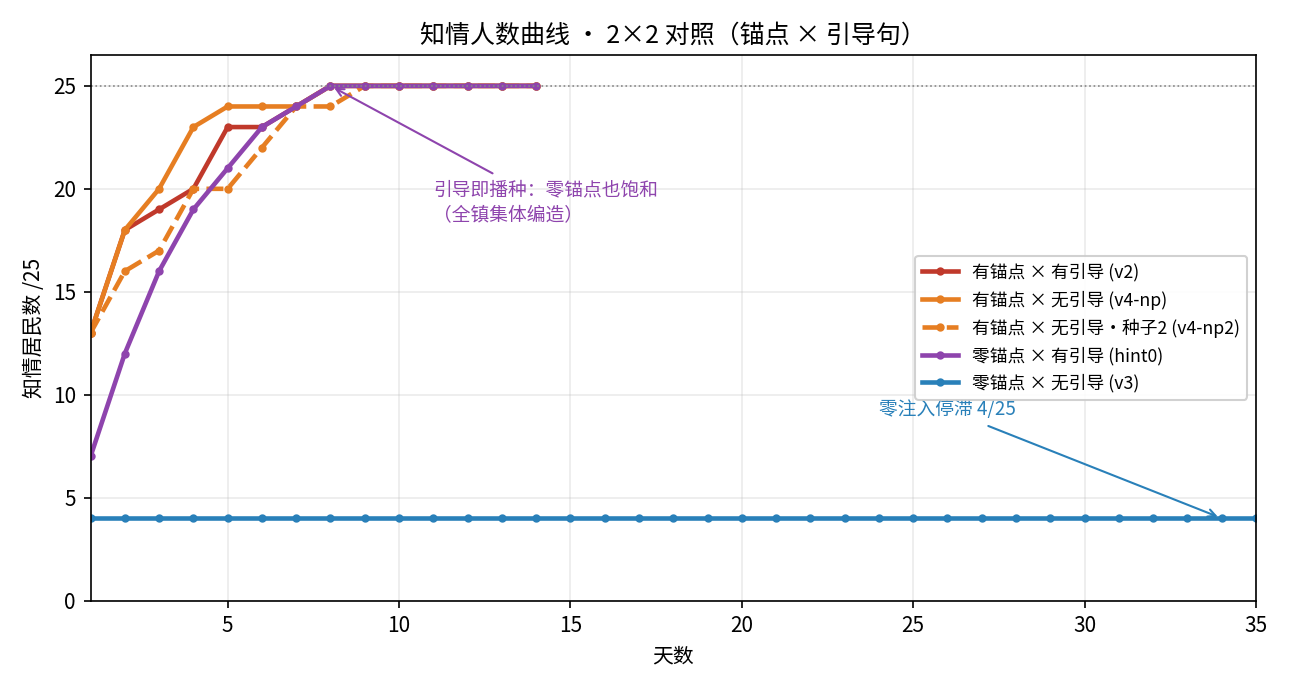
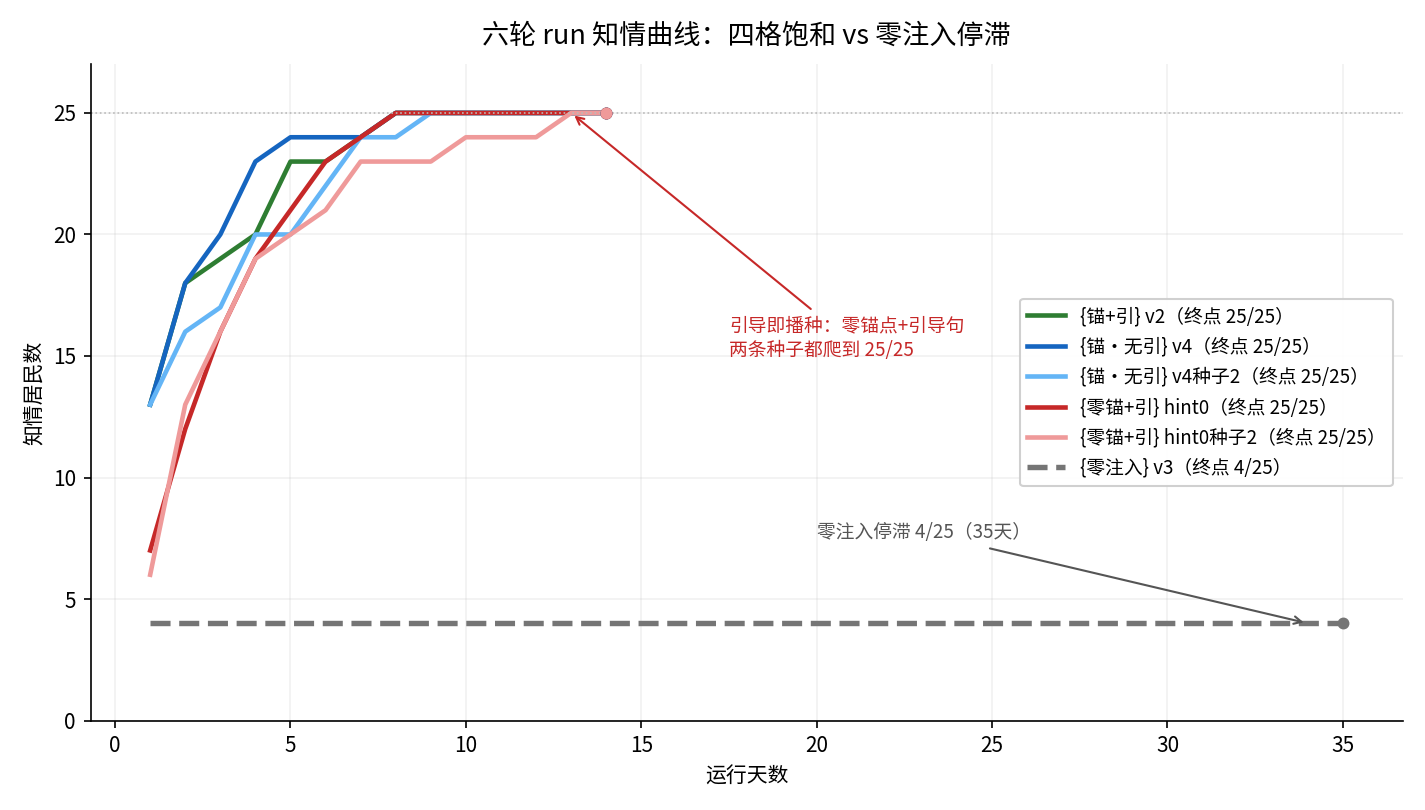
fig8: 加入 hint0 种子2 曲线(六轮), README 数据量更新

diff --git a/README.md b/README.md
@@ -1,6 +1,6 @@
 # Atria — 安镇：LLM 小镇中的受控信息传播实验
 
-> 25 agents · 91 天对照实验 · 7,000+ 起事件 · 运行期零人工干预
+> 25 agents · 105 天对照实验 · 8,300+ 起事件 · 运行期零人工干预
 
 **A controlled study of information spread in an LLM town.** Twenty-five agents powered by Atria-Dawn live in a small town with schedules, memories, and social life. We seeded six of them with fragments of an invented event, then ran a 2×2 experiment over *memory anchors* × *prompt guidance* — and measured whether a rumor needs facts to spread, or merely a question.
 
@@ -15,7 +15,7 @@
 </div>
 
 <p align="center">
-  <img src="docs/figures/fig8_2x2_curves.png" alt="五轮 run 的知情人数曲线：四格饱和 vs 零注入停滞" width="760">
+  <img src="docs/figures/fig8_2x2_curves.png" alt="六轮 run 的知情人数曲线：四格饱和 vs 零注入停滞" width="760">
 </p>
 
 ---
